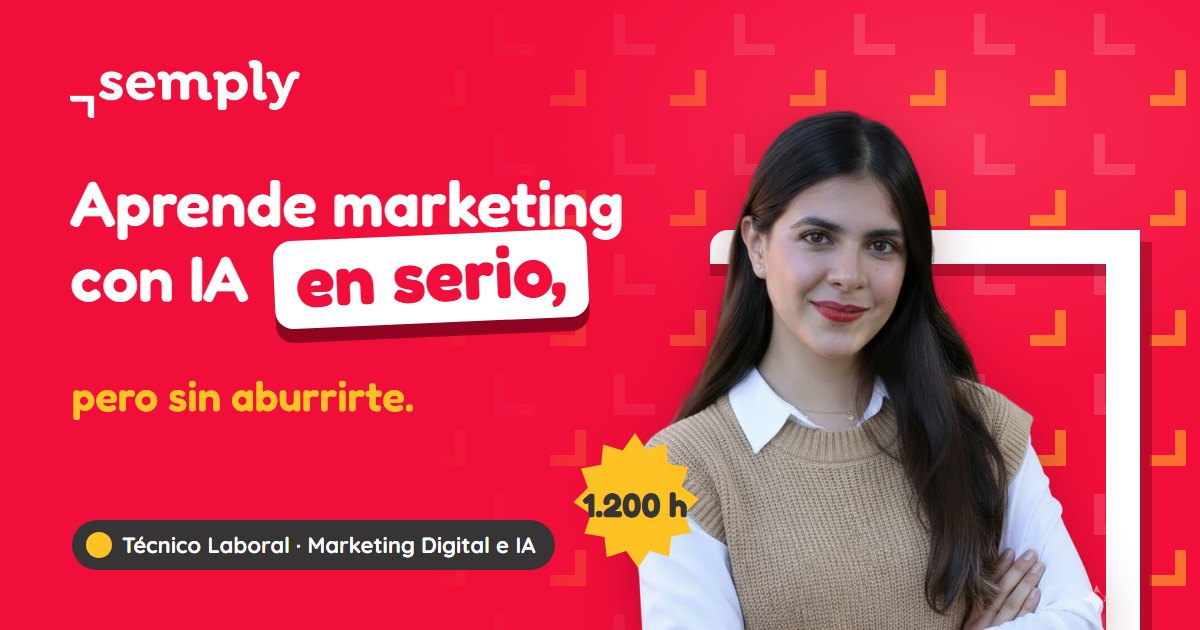
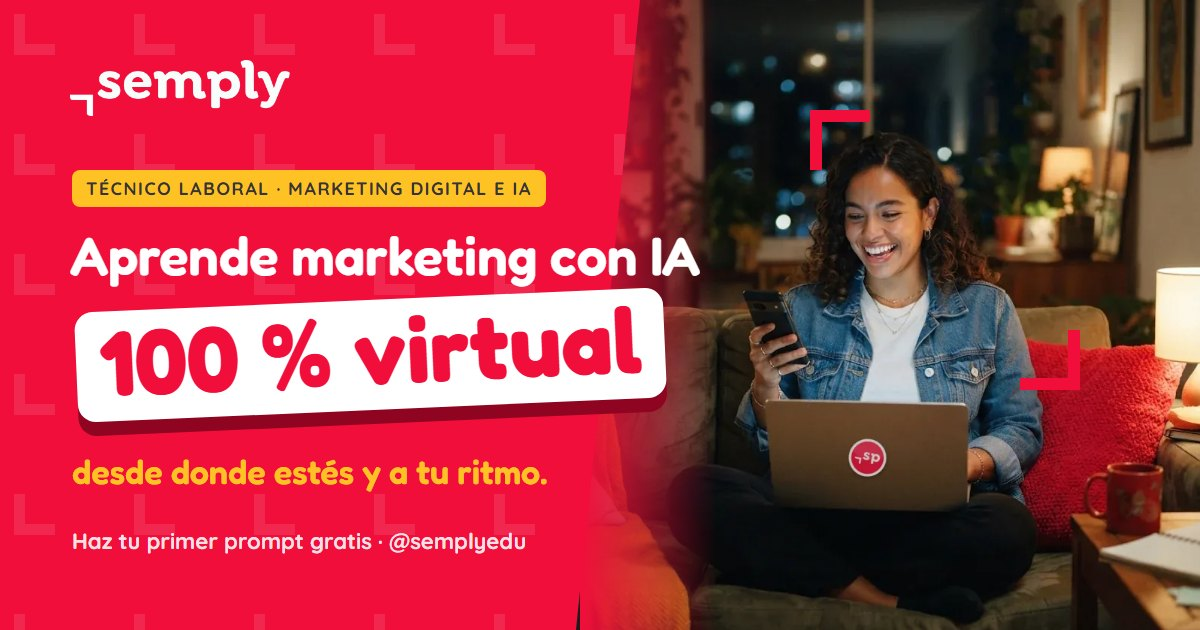
[ Semply ] [ Edición de la página ] [ 20/11/26 - 09:47 ]

diff --git a/semply/index.html b/semply/index.html
@@ -3,33 +3,33 @@
 <head>
 <meta charset="utf-8">
 <meta name="viewport" content="width=device-width, initial-scale=1, viewport-fit=cover">
-<title>Semply · Técnico Laboral en Marketing Digital e IA</title>
-<meta name="description" content="Técnico Laboral en Marketing Digital e IA: 12 módulos, 2 semestres, 1.200 horas. Programa con registro y licencia de la Alcaldía de Yumbo. Arma tu ruta, saca tu carné Semply e inscríbete por WhatsApp.">
+<title>Semply · Aprende marketing con IA, 100 % virtual</title>
+<meta name="description" content="Técnico Laboral en Marketing Digital e IA, 100 % virtual, con registro y licencia de la Alcaldía de Yumbo. Haz tu primer prompt de marketing en 20 segundos y habla con Semply por WhatsApp.">
 <meta name="theme-color" content="#F10E3B">
 <meta property="og:type" content="website">
 <meta property="og:locale" content="es_CO">
 <meta property="og:site_name" content="Semply">
-<meta property="og:title" content="Semply · Aprende marketing con IA en serio, pero sin aburrirte">
-<meta property="og:description" content="Técnico Laboral en Marketing Digital e IA: 12 módulos, 2 semestres, 1.200 horas. Arma tu ruta, saca tu carné Semply e inscríbete por WhatsApp.">
+<meta property="og:title" content="Semply · Aprende marketing con IA, 100 % virtual">
+<meta property="og:description" content="Haz tu primer prompt de marketing en 20 segundos. Técnico Laboral en Marketing Digital e IA, desde donde estés y a tu ritmo.">
 <meta property="og:image" content="https://conoce-mas.link/semply/og.jpg">
 <meta property="og:url" content="https://conoce-mas.link/semply/">
 <link rel="canonical" href="https://conoce-mas.link/semply/">
 <meta property="og:image:width" content="1200">
 <meta property="og:image:height" content="630">
-<meta property="og:image:alt" content="Logo de Semply sobre rojo con el corchete de la marca, piezas en L y el titular Aprende marketing con IA en serio, pero sin aburrirte">
+<meta property="og:image:alt" content="Mujer sonriendo en su sofá con el portátil y el celular, junto al titular Aprende marketing con IA, 100 % virtual">
 <meta name="twitter:card" content="summary_large_image">
-<meta name="twitter:title" content="Semply · Aprende marketing con IA en serio">
-<meta name="twitter:description" content="12 módulos, 2 semestres, 1.200 horas. Arma tu ruta y saca tu carné Semply.">
+<meta name="twitter:title" content="Semply · Aprende marketing con IA, 100 % virtual">
+<meta name="twitter:description" content="Haz tu primer prompt de marketing en 20 segundos.">
 <meta name="twitter:image" content="og.jpg">
 <link rel="icon" href="favicon.png" type="image/png">
 <link rel="apple-touch-icon" href="icono.png">
 <link rel="preconnect" href="https://fonts.googleapis.com">
 <link rel="preconnect" href="https://fonts.gstatic.com" crossorigin>
 <link href="https://fonts.googleapis.com/css2?family=Fredoka:wght@500;600;700&family=Quicksand:wght@500;600;700&display=swap" rel="stylesheet">
-<link rel="preload" as="image" href="img/heroe-karol.webp">
+<link rel="preload" as="image" href="img/heroe.webp">
 <meta name="robots" content="noai, noimageai, noarchive">
 <style>html,body{background:#F10E3B;margin:0}</style>
 </head>
[2 lines of base64/hex data omitted]
 </body>
 </html>
